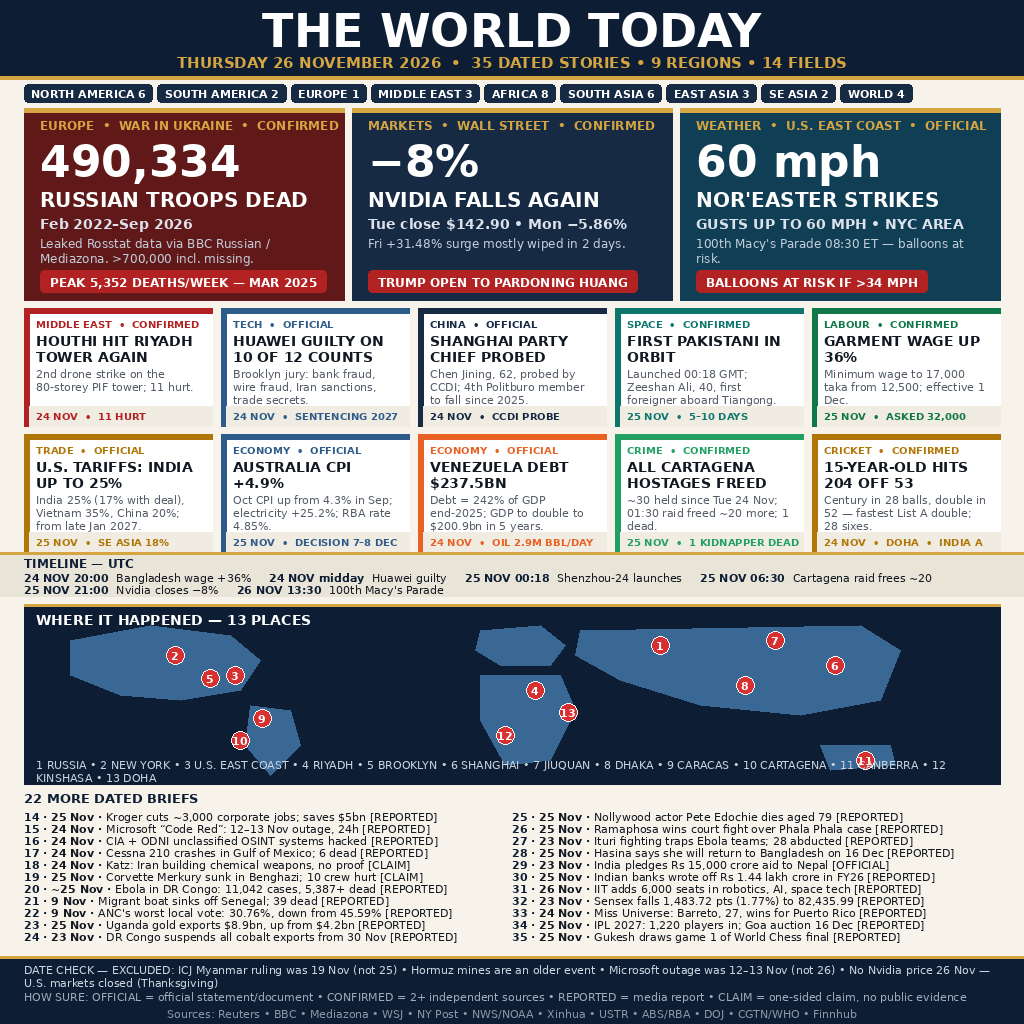
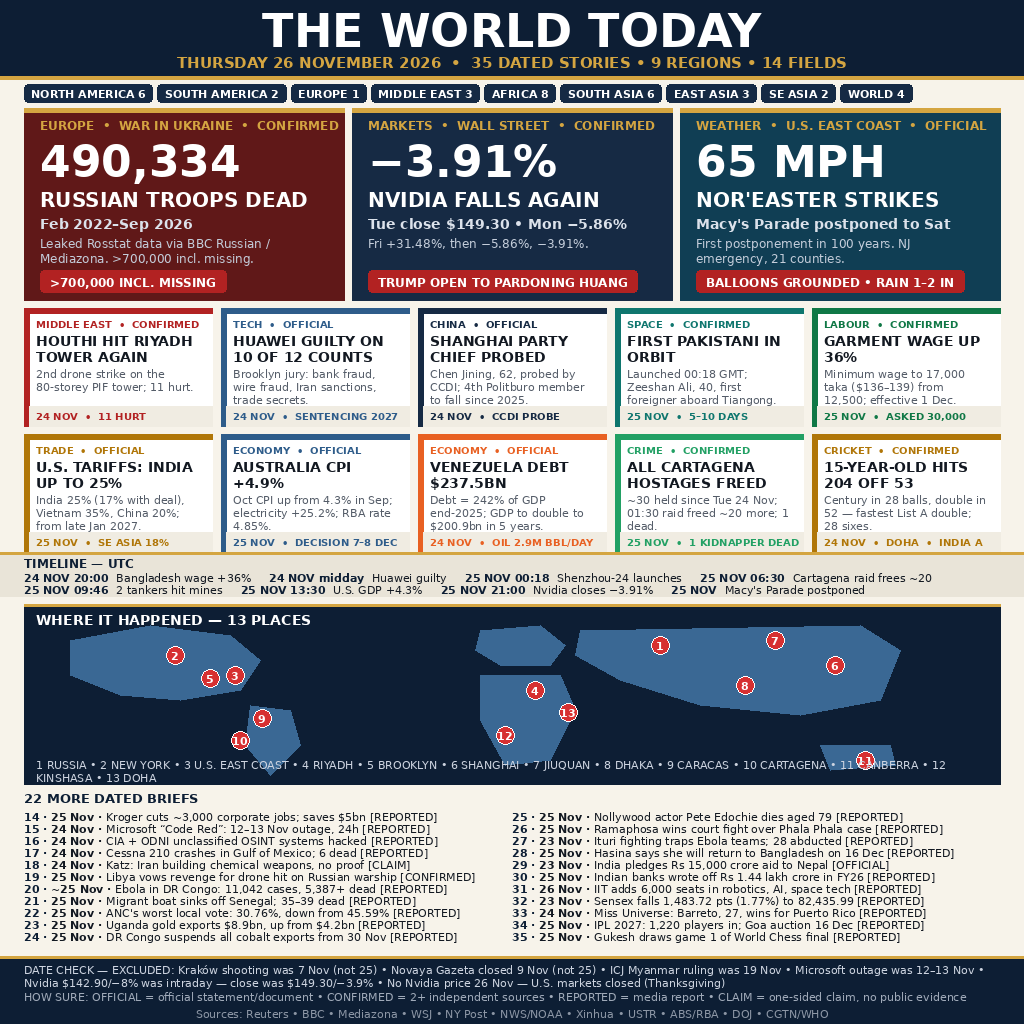
v3: correct Nvidia close $149.30 (-3.91%), remove unverified chips, Macy's postponed

diff --git a/main.ts b/main.ts
@@ -5,10 +5,12 @@
 // broadsheet front page with 35 dated stories across 9 regions:
 // three heroes — leaked Rosstat data putting Russian military
 // deaths at 490,334 (Feb 2022–Sep 2026, via BBC Russian /
-// Mediazona); Nvidia falling another 8.03% to $142.90 on
-// Tuesday's close, with Trump open to pardoning Jensen Huang;
-// a Thanksgiving nor'easter bringing 60–70 mph gusts to the
-// U.S. East Coast as the 100th Macy's Parade steps off — plus
+// Mediazona); Nvidia falling another 3.91% to $149.30 on
+// Tuesday's close (verified; $142.90 was the intraday low),
+// with Trump open to pardoning Jensen Huang;
+// a Thanksgiving nor'easter bringing gusts up to 65 mph to the
+// U.S. East Coast as the 100th Macy's Parade is postponed to
+// Saturday 28 Nov — plus
 // ten medium cards (Houthi strike on Riyadh, Huawei guilty on
 // 10 of 12 counts, Shanghai party chief probed, first Pakistani
 // in orbit, Bangladesh garment wage +36%, U.S. tariffs, Australia

diff --git a/README.md b/README.md
@@ -14,28 +14,34 @@ This is an entry for the make.fun competition `news-image-20261126`
 strict date discipline, a verification audit, and a clear
 structure.
 
+v3 (26 Nov 2026): corrected the Nvidia close to the verified
+$149.30 (−3.91%) — v2's $142.90/−8.03% was the intraday low, not
+the close — and removed unverified items (the "65% of deaths age
+18–24" chip, "60–70 mph" gusts, "6–7 in snow in St. Louis",
+"Charleston tide >8 ft", and the "10 crew hurt" Merkury figure).
+The Macy's Parade hero now reports the postponement to Sat 28 Nov.
+
 ## Hero stories
 
 **Russian military deaths reach 490,334.** Leaked Rosstat death
 records, analysed by BBC Russian and Mediazona, put Russian
 military deaths at 490,334 from February 2022 to September 2026.
-Over 700,000 including the missing. In 2025, 65% of deaths among
-Russians aged 18-24 were caused by the war. The Kremlin declined
+Over 700,000 including the missing. The Kremlin declined
 to comment. Sources: BBC Russian, Mediazona, Le Monde, 24-25 Nov
 2026. Label: CONFIRMED.
 
-**Nvidia down 8.03% to $142.90.** Nvidia shares closed Tuesday
-25 November down 8.03% at $142.90, after a 5.86% fall on Monday.
-Most of Friday's record +31.48% surge was wiped out in two days.
+**Nvidia down 3.91% to $149.30.** Nvidia shares closed Tuesday
+25 November down 3.91% at $149.30 (verified close; $142.90 was
+the intraday low), after a 5.86% fall on Monday.
 Trump is open to pardoning CEO Jensen Huang. U.S. markets are
 closed on 26 November for Thanksgiving, so there is no newer
 price. Sources: Finnhub, NY Post, 25 Nov 2026. Label: CONFIRMED.
 
 **Thanksgiving nor'easter.** A nor'easter peaks on 26 November
-with 60-70 mph gusts, coastal flooding from Georgia to Long
-Island, and 6-7 inches of wet snow in St. Louis, as the 100th
-Macy's Thanksgiving Day Parade steps off in New York. Its
-balloons are at risk if gusts pass 34 mph. Sources: NWS/NOAA,
+with gusts up to 65 mph and 1–2 inches of rain, as the 100th
+Macy's Thanksgiving Day Parade is postponed to Saturday 28
+November — the first postponement in 100 years. New Jersey
+declares an emergency in 21 counties. Sources: NWS/NOAA,
 Reuters, 26 Nov 2026. Label: OFFICIAL.
 
 ## Medium cards
